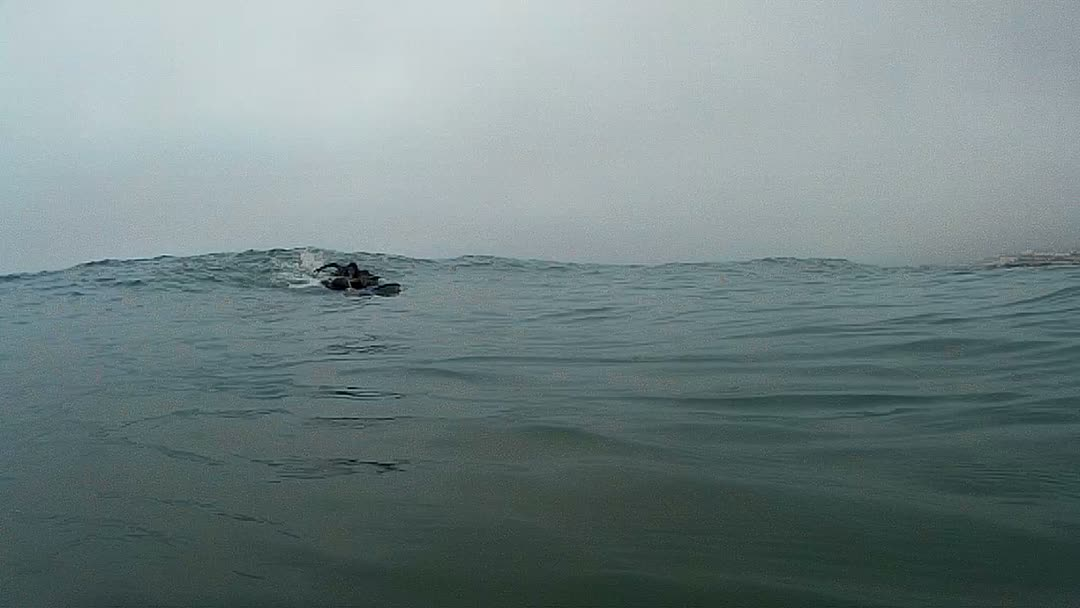
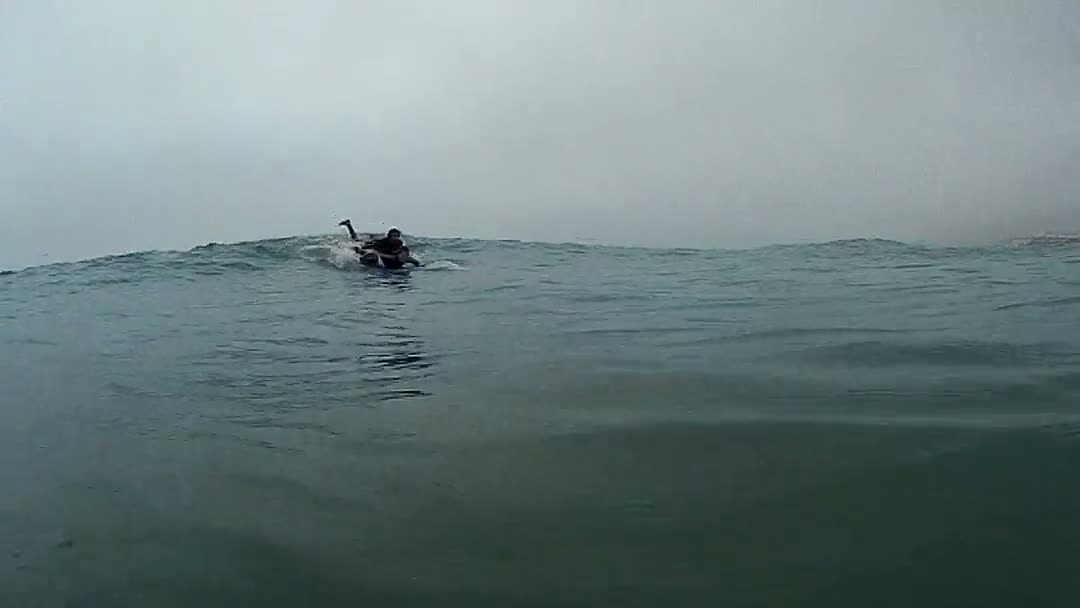
Mobile: swipeable reviews, shorter hero, sturdier About video
Reviews:
- on phones the six cards become a horizontal snap carousel with a peek
  of the next card, plus prev/next arrows below the cards reusing the
  packages carousel logic; desktop keeps the plain grid and no arrows
- long quotes clamp to nine lines so the cards match in height
- arrows account for the track's bleed padding, so "previous" is
  correctly disabled on the first card

Hero (phones):
- 92vh -> 70vh, and the badge follows the buttons instead of being
  pushed to the bottom edge, which left a dead band in the middle

About:
- poster is a frame from the video itself, not about-youness.jpg, which
  read as a different photo laid over the section
- playback driven from an IntersectionObserver with a retry on canplay
  and a first-gesture fallback, since iOS in Low Power Mode refuses
  autoplay outright; pauses off screen and honours reduced motion

diff --git a/main.js b/main.js
@@ -633,7 +633,7 @@ let restoreSavedLang = () => {};
 
 /* ---------- PACKAGES / ACTIVITIES: carousels ---------- */
 (function carousels() {
-  document.querySelectorAll(".pkg__carousel").forEach((root) => {
+  document.querySelectorAll(".pkg__carousel, .tst__carousel").forEach((root) => {
     const track = root.querySelector("[data-pkg-track]");
     const prev = root.querySelector("[data-pkg-prev]");
     const next = root.querySelector("[data-pkg-next]");
@@ -641,7 +641,7 @@ let restoreSavedLang = () => {};
 
     // one card + the flex gap, so a click advances exactly one card
     const step = () => {
-      const card = track.querySelector(".pkg");
+      const card = track.querySelector(".pkg, .tcard");
       if (!card) return track.clientWidth;
       const gap = parseFloat(getComputedStyle(track).columnGap) || 0;
       return card.getBoundingClientRect().width + gap;
@@ -649,7 +649,10 @@ let restoreSavedLang = () => {};
 
     const sync = () => {
       const max = track.scrollWidth - track.clientWidth;
-      prev.disabled = track.scrollLeft <= 1;
+      // the reviews track bleeds past the section padding, so its resting
+      // position is padding-left rather than 0
+      const start = parseFloat(getComputedStyle(track).paddingLeft) || 0;
+      prev.disabled = track.scrollLeft <= start + 1;
       next.disabled = track.scrollLeft >= max - 1;
     };
 
@@ -879,4 +882,38 @@ restoreSavedLang();
   video.addEventListener("canplay", update);   // the first play() can land before it is ready
   phone.addEventListener("change", update);
   still.addEventListener("change", update);
+})();
+
+/* ---------- ABOUT: keep the video playing on phones ---------- */
+(function aboutVideo() {
+  const video = document.querySelector("[data-about-video]");
+  if (!video) return;
+
+  const still = window.matchMedia("(prefers-reduced-motion: reduce)");
+  let onScreen = false;
+
+  const update = () => {
+    if (still.matches) { video.pause(); return; }
+    if (onScreen) video.play().catch(() => {});   // phones often refuse the first attempt
+    else video.pause();
+  };
+
+  new IntersectionObserver((entries) => {
+    onScreen = entries[0].isIntersecting;
+    update();
+  }, { rootMargin: "200px" }).observe(video);
+
+  video.addEventListener("canplay", update);
+  still.addEventListener("change", update);
+
+  // iOS in Low Power Mode blocks autoplay outright: start on the first tap instead
+  const onGesture = () => {
+    update();
+    if (!video.paused) {
+      ["touchstart", "pointerdown", "scroll"].forEach((e) =>
+        window.removeEventListener(e, onGesture));
+    }
+  };
+  ["touchstart", "pointerdown", "scroll"].forEach((e) =>
+    window.addEventListener(e, onGesture, { passive: true }));
 })();

diff --git a/style.css b/style.css
@@ -774,6 +774,7 @@ body.menu-open .mobile-menu { opacity: 1; transform: translateY(0) scale(1); poi
   }
 }
 .pkg__nav { display: flex; justify-content: flex-end; gap: 10px; }
+.tst__nav { display: none; }   /* desktop shows a plain grid, nothing to page through */
 .pkg__arrow {
   width: 44px;
   height: 44px;
@@ -1877,7 +1878,6 @@ body.menu-open .mobile-menu { opacity: 1; transform: translateY(0) scale(1); poi
 @media (max-width: 600px) {
   .process__grid { grid-template-columns: 1fr; }
   .spots__strip  { grid-template-columns: 1fr 1fr; }
-  .tst__grid     { grid-template-columns: 1fr; }
   .pkg__track > .pkg { flex-basis: 100%; }
 }
 @media (max-width: 760px) {
@@ -1925,6 +1925,35 @@ body.menu-open .mobile-menu { opacity: 1; transform: translateY(0) scale(1); poi
   .pkg__feat { font-size: 13.8px; }
   .pkg__nav { justify-content: center; }
 
+  .tst__carousel { display: flex; flex-direction: column; gap: 16px; }
+  .tst__nav { display: flex; justify-content: center; }
+  /* reviews become a swipeable row on phones: six stacked cards ate the screen */
+  .tst__grid {
+    display: flex;
+    grid-template-columns: none;
+    gap: 14px;
+    overflow-x: auto;
+    scroll-snap-type: x mandatory;
+    scroll-padding: 0;
+    overscroll-behavior-x: contain;
+    scrollbar-width: none;
+    /* bleed to the screen edges so the peeking card isn't clipped by the padding */
+    margin: 0 calc(var(--pad-x) * -1);
+    padding: 4px var(--pad-x);
+  }
+  .tst__grid::-webkit-scrollbar { display: none; }
+  .tst__grid > .tcard {
+    flex: 0 0 86%;          /* a sliver of the next card signals swiping */
+    scroll-snap-align: start;
+  }
+  /* long reviews would otherwise set a huge height for every card */
+  .tcard__text {
+    display: -webkit-box;
+    -webkit-line-clamp: 9;
+    -webkit-box-orient: vertical;
+    overflow: hidden;
+  }
+
   /* cards + panels */
   .spots { padding: 44px var(--pad-x); }
   .spots__title { font-size: 21px; }
@@ -1944,8 +1973,12 @@ body.menu-open .mobile-menu { opacity: 1; transform: translateY(0) scale(1); poi
   .nav__logo { height: 40px; }
   .lang-btn { padding: 4px 8px; gap: 4px; }
   .lang-chevron { display: none; }
-  .hero { height: 92vh; min-height: 620px; }
+  .hero { height: 70vh; min-height: 480px; }
   .hero__content { padding-top: 84px; padding-bottom: 20px; }
+  /* phones: drop the auto margins so the badge sits under the buttons
+     instead of being pushed to the bottom edge with a gap in between */
+  .hero__title { margin-top: 0; }
+  .hero__badge { margin-top: 18px; }
   .hero__body { margin-top: 16px; }
   .footer__links { justify-content: center; gap: 16px 24px; }
   .footer { padding: 44px var(--pad-x) 36px; }

diff --git a/index.html b/index.html
@@ -381,7 +381,7 @@
 
       <div class="about__main">
         <div class="about__media">
-          <video src="assets/about-video.mp4" poster="assets/about-youness.jpg"
+          <video data-about-video src="assets/about-video.mp4" poster="assets/about-video-poster.jpg"
                  autoplay muted loop playsinline preload="metadata" aria-hidden="true"></video>
         </div>
 
@@ -701,7 +701,13 @@
         <p class="section-sub" data-i18n="tst_sub">Real stories from surfers who paddled out with Youness and fell in love with Morocco's waves.</p>
       </div>
 
-      <div class="tst__grid" data-tst-grid></div>
+      <div class="tst__carousel">
+        <div class="tst__grid" data-tst-grid data-pkg-track tabindex="0" role="group" aria-label="Avis clients"></div>
+        <div class="pkg__nav tst__nav">
+          <button class="pkg__arrow" type="button" data-pkg-prev aria-label="Avis précédent"><svg viewBox="0 0 20 20" fill="none" stroke="currentColor" stroke-width="1.8" stroke-linecap="round" stroke-linejoin="round" aria-hidden="true"><path d="M12.5 4.5 7 10l5.5 5.5"/></svg></button>
+          <button class="pkg__arrow" type="button" data-pkg-next aria-label="Avis suivant"><svg viewBox="0 0 20 20" fill="none" stroke="currentColor" stroke-width="1.8" stroke-linecap="round" stroke-linejoin="round" aria-hidden="true"><path d="M7.5 4.5 13 10l-5.5 5.5"/></svg></button>
+        </div>
+      </div>
     </div>
   </section>
 
